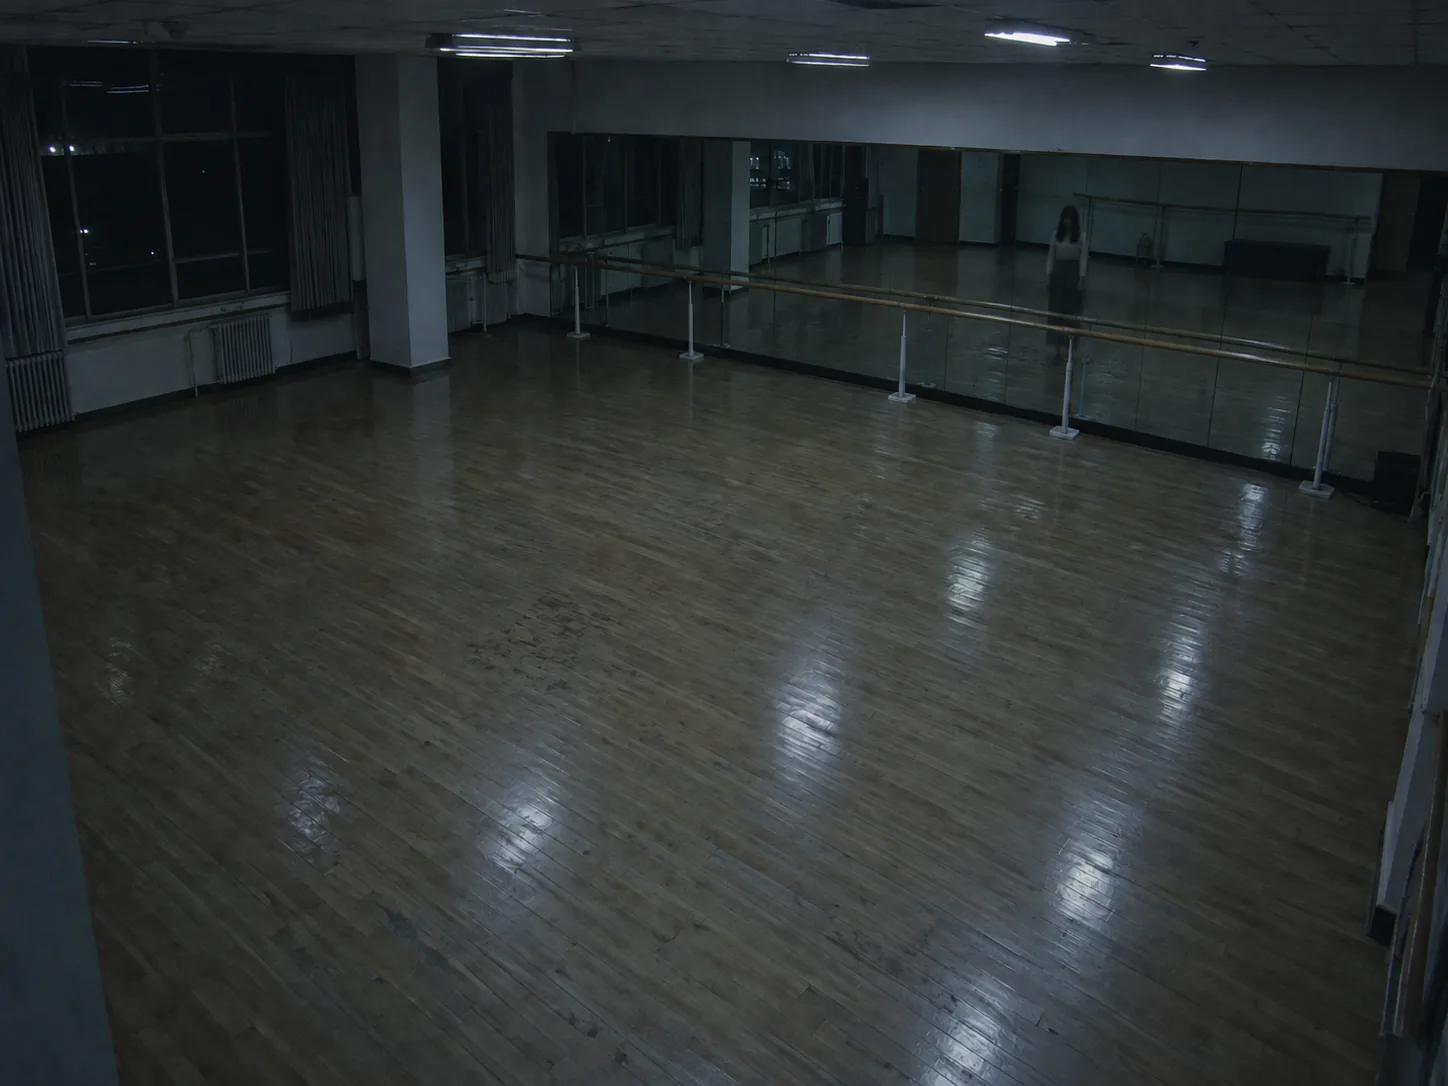
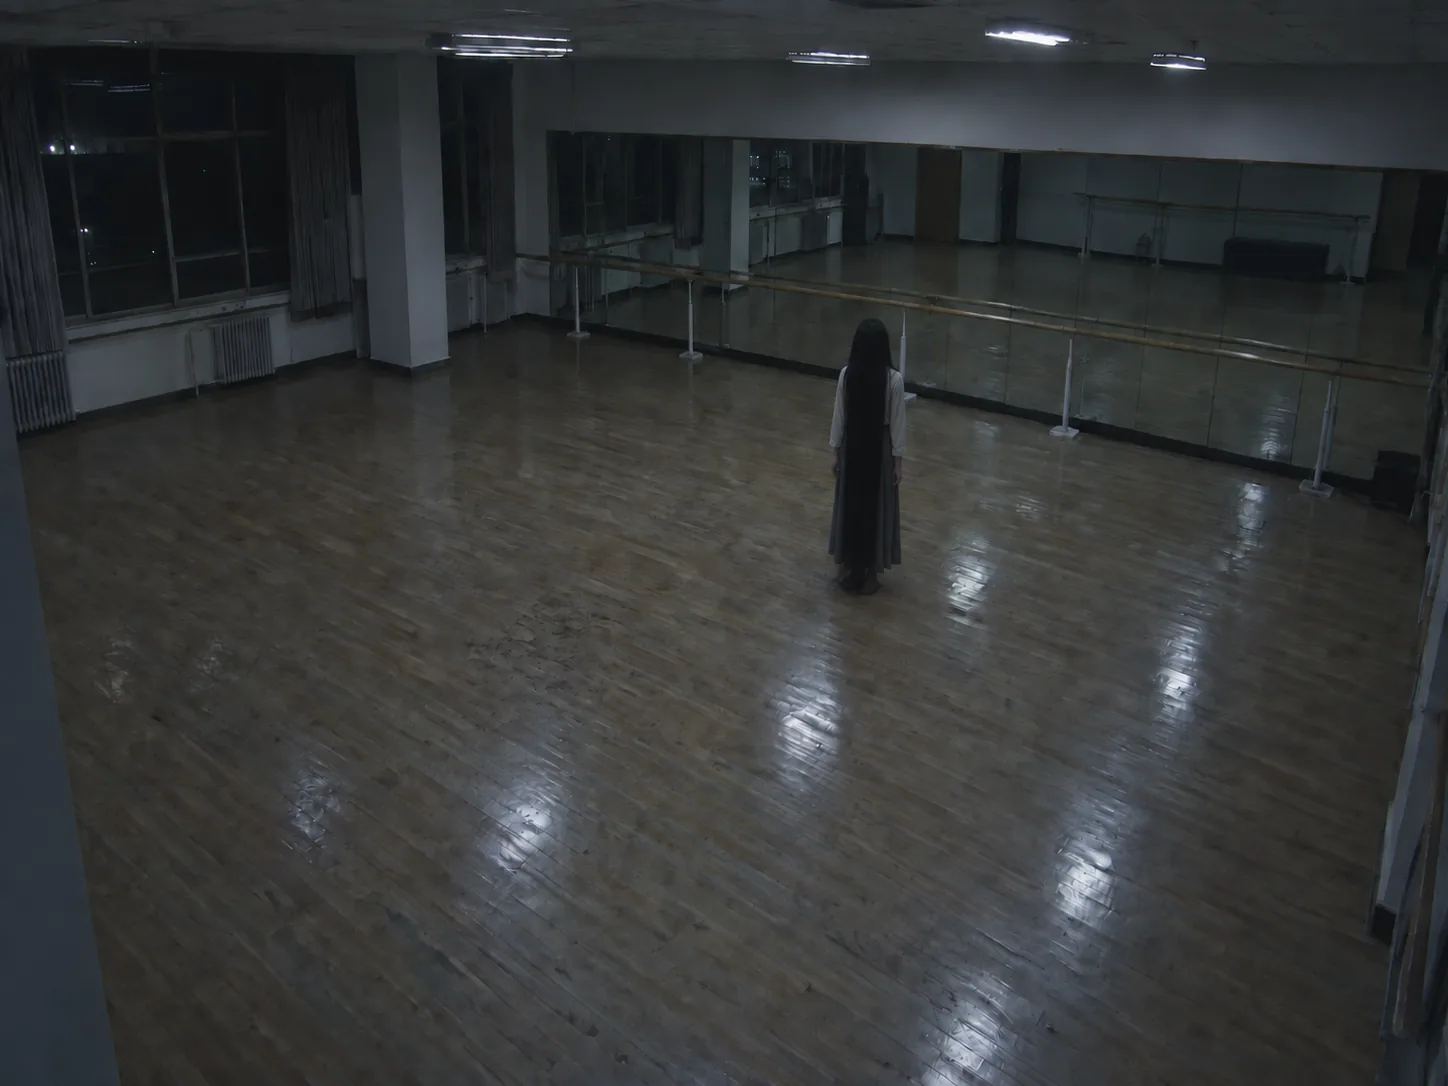
Revise scene preview after visual review

diff --git a/public/game/scene-preview/index.html b/public/game/scene-preview/index.html
@@ -37,15 +37,15 @@
       <article><div class="frame"><a href="assets/music-normal.webp" target="_blank"><img src="assets/music-normal.webp" alt="音乐教室正常监控画面"></a></div><div class="copy"><h3><span class="tag">正常 · 已完成</span>无人值守</h3><p>琴盖闭合，琴凳居中，三只谱架都朝向钢琴。</p></div></article>
       <article><div class="frame"><a href="assets/music-open.webp" target="_blank" aria-label="放大查看 music-open"><img src="assets/music-open.webp" alt="music-open 监控示意图" loading="lazy"></a></div><div class="copy"><h3><span class="tag">异常 01</span>琴盖与琴凳</h3><p>琴盖掀起，琴凳退到右后方；变化集中在画面左侧，便于玩家发现。</p></div></article>
       <article><div class="frame"><a href="assets/music-stands.webp" target="_blank" aria-label="放大查看 music-stands"><img src="assets/music-stands.webp" alt="music-stands 监控示意图" loading="lazy"></a></div><div class="copy"><h3><span class="tag">异常 02</span>谱架转向</h3><p>三只谱架同时转向镜头，其中一只倾倒，形成清晰的形状差异。</p></div></article>
-      <article><div class="frame"><a href="assets/music-figure.webp" target="_blank" aria-label="放大查看 music-figure"><img src="assets/music-figure.webp" alt="music-figure 监控示意图" loading="lazy"></a></div><div class="copy"><h3><span class="tag">异常 03</span>窗内多出一人</h3><p>室内仍空着，窗玻璃中出现站立的人影；人物位置与实际空教室形成矛盾。</p></div></article>
+      <article><div class="frame"><a href="assets/music-figure.webp" target="_blank" aria-label="放大查看 music-figure"><img src="assets/music-figure.webp" alt="音乐教室窗边人影和扬起的窗帘" loading="lazy"></a></div><div class="copy"><h3><span class="tag">异常 03</span>窗边人影与扬起的窗帘</h3><p>教室里无人，窗边多出站立的人影，两侧窗帘突然被风掀向室内。</p></div></article>
     </div>
   </section>
 
   <section>
-    <h2>02 舞蹈教室</h2><p class="sub">镜墙与把杆是主要参照物；人物异常只出现于反射区域，保留真实空间的空旷感。</p>
+    <h2>02 舞蹈教室</h2><p class="sub">镜墙与把杆是主要参照物；一类异常是人站在实景却没有倒影，另两类发生在镜面内部。</p>
     <div class="grid">
       <article><div class="frame"><a href="assets/dance-normal.webp" target="_blank"><img src="assets/dance-normal.webp" alt="舞蹈教室正常监控画面"></a></div><div class="copy"><h3><span class="tag">正常 · 已完成</span>空镜</h3><p>镜面准确反射空房间，把杆连续，地板无遮挡。</p></div></article>
-      <article><div class="frame"><a href="assets/dance-figure.webp" target="_blank" aria-label="放大查看 dance-figure"><img src="assets/dance-figure.webp" alt="dance-figure 监控示意图" loading="lazy"></a></div><div class="copy"><h3><span class="tag">异常 01</span>镜中靠近</h3><p>现实空间无人，镜中的单个人影占镜墙高度约一半，并朝镜面前方靠近。</p></div></article>
+      <article><div class="frame"><a href="assets/dance-figure.webp" target="_blank" aria-label="放大查看 dance-figure"><img src="assets/dance-figure.webp" alt="白衣女人黑发垂至脚边，背对监控、面朝镜墙却没有倒影" loading="lazy"></a></div><div class="copy"><h3><span class="tag">异常 01</span>没有倒影的女人</h3><p>白衣女人的黑发垂至脚边。她站在教室里背对监控、面朝镜墙，镜中对应位置却是空的。</p></div></article>
       <article><div class="frame"><a href="assets/dance-desync.webp" target="_blank" aria-label="放大查看 dance-desync"><img src="assets/dance-desync.webp" alt="dance-desync 监控示意图" loading="lazy"></a></div><div class="copy"><h3><span class="tag">异常 02</span>动作不同步</h3><p>镜中轮廓抬起双手，实景依然无人。</p></div></article>
       <article><div class="frame"><a href="assets/dance-line.webp" target="_blank" aria-label="放大查看 dance-line"><img src="assets/dance-line.webp" alt="dance-line 监控示意图" loading="lazy"></a></div><div class="copy"><h3><span class="tag">异常 03</span>队列</h3><p>镜墙深处多出一排模糊站立的人影，实景地面始终空着。</p></div></article>
     </div>
@@ -55,9 +55,9 @@
     <h2>03 电梯厅</h2><p class="sub">两扇电梯门及楼层灯是核心观察点，异常必须在正常机位下可辨认。</p>
     <div class="grid">
       <article><div class="frame"><a href="assets/elevator-normal.webp" target="_blank" aria-label="放大查看 elevator-normal"><img src="assets/elevator-normal.webp" alt="elevator-normal 监控示意图" loading="lazy"></a></div><div class="copy"><h3><span class="tag">正常</span>夜间候梯区</h3><p>两部电梯门闭合，楼层显示稳定，金属门反光中无人。</p></div></article>
-      <article><div class="frame"><a href="assets/elevator-floor.webp" target="_blank" aria-label="放大查看 elevator-floor"><img src="assets/elevator-floor.webp" alt="elevator-floor 监控示意图" loading="lazy"></a></div><div class="copy"><h3><span class="tag">异常 01</span>不存在的楼层</h3><p>左侧楼层数跳到建筑不存在的层数，右侧显示依旧正常。</p></div></article>
+      <article><div class="frame"><a href="assets/elevator-floor.webp" target="_blank" aria-label="放大查看 elevator-floor"><img src="assets/elevator-floor.webp" alt="两部电梯的楼层屏同时显示 DIE" loading="lazy"></a></div><div class="copy"><h3><span class="tag">异常 01</span>双屏显示 DIE</h3><p>左右两部电梯的红色楼层屏同时显示“DIE”，两扇门仍然关闭。</p></div></article>
       <article><div class="frame"><a href="assets/elevator-open.webp" target="_blank" aria-label="放大查看 elevator-open"><img src="assets/elevator-open.webp" alt="elevator-open 监控示意图" loading="lazy"></a></div><div class="copy"><h3><span class="tag">异常 02</span>门后全黑</h3><p>左门开到一半，轿厢内完全不见轮廓，右侧门保持关闭。</p></div></article>
-      <article><div class="frame"><a href="assets/elevator-reflection.webp" target="_blank" aria-label="放大查看 elevator-reflection"><img src="assets/elevator-reflection.webp" alt="elevator-reflection 监控示意图" loading="lazy"></a></div><div class="copy"><h3><span class="tag">异常 03</span>门上反影</h3><p>关闭的右侧金属门映出一名站在摄像头下方的人，厅里无人。</p></div></article>
+      <article><div class="frame"><a href="assets/elevator-footprints.webp" target="_blank" aria-label="放大查看 elevator-footprints"><img src="assets/elevator-footprints.webp" alt="电梯厅地面湿脚印通向关闭的电梯门" loading="lazy"></a></div><div class="copy"><h3><span class="tag">异常 03</span>通向电梯的湿脚印</h3><p>空走廊里多出一串湿脚印，一直走到关闭的右侧电梯门前；画面中没有人。</p></div></article>
     </div>
   </section>
 
